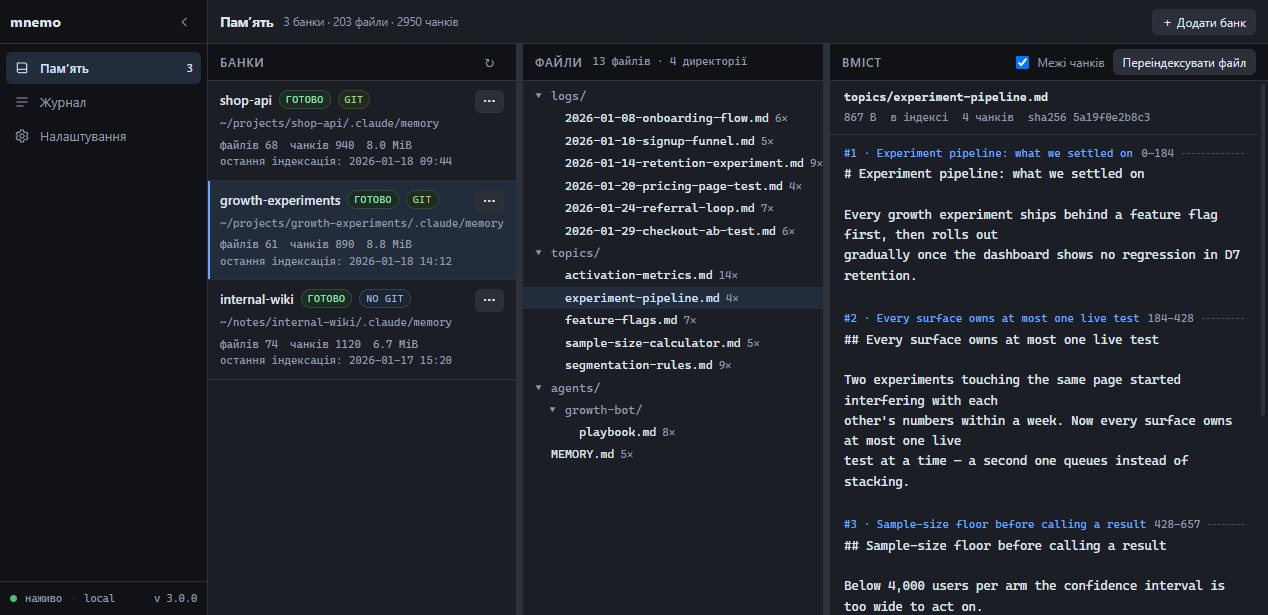
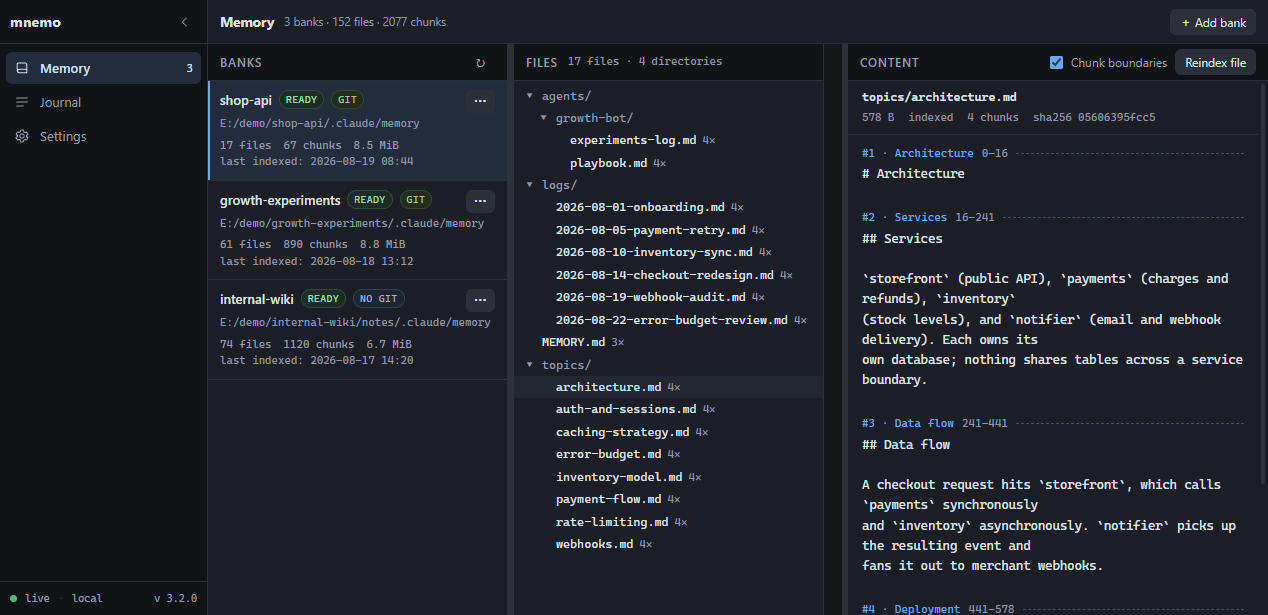
docs: replace the README console screenshot with an all-English shot (MN-29)
The old docs/console.png used synthetic demo data that was crafted live
in a browser session and never committed anywhere, so it couldn't be
reproduced -- and it showed Ukrainian UI chrome in an English README.
New shot: same tab, same 1268x615 proportions, fully English, taken
against devserver.py fixtures with a richer demo bank (17 files across
logs/, topics/, agents/growth-bot/) instead of the checked-in fixtures'
thin 4-file bank.

MN-28 needed no code change: the regenerate-token confirmation dialog
already exists and matches what was asked for.

diff --git a/.claude/memory/logs/2026-08-25-mn28-mn29.md b/.claude/memory/logs/2026-08-25-mn28-mn29.md
@@ -1,0 +1,41 @@
+# 2026-08-25 — MN-28 (verify-only) and MN-29 (README screenshot)
+
+Branch `fix/mn-28-mn-29-token-warning-and-readme-screenshot`, created before any file edit (per the branch-first rule from the same day's earlier MN-8/MN-10 session).
+
+## MN-28 — regenerate-token confirmation already exists
+
+Checked live against the real console (`app.js`'s `bankToken` panel): clicking "Перегенерувати" already sets `bankToken.confirming = true` and renders a full explanation (`common.token.regenConfirm`) plus Cancel/"Так, перегенерувати" buttons before calling `regenerateBankToken()`.
+No code change — verified, commented on the ticket, closed as Done.
+
+## MN-29 — README screenshot had gone stale and was never reproducible
+
+`docs/console.png` (added in `9d13a19`, "New cabinet.png shows the actual current UI with synthetic example data") turned out to be irreproducible: `git log --all -p -S "shop-api"` across the whole history found **zero** hits — the demo bank names (`shop-api`/`growth-experiments`/`internal-wiki`) were never committed anywhere, so that data was crafted live in a browser session and thrown away, not stored.
+`.claude/scratch/` — the one place it might have survived uncommitted — had already been wiped in this same session's earlier post-merge cleanup for PR #20.
+Nothing to recover; confirmed to the user directly rather than guessing.
+
+**The checked-in dev fixtures (`src/webui/fixtures/*.json`) are unusable as-is for a hero screenshot:**
+- `banks.json`'s `index_provider_key` (`"api:bge-m3:1024"`) doesn't match `devserver.py`'s own active-provider key (`_fixture_provider_key()` returns `"local:intfloat/multilingual-e5-large:1024"` for `provider: "local"`, note the `intfloat/` org prefix — differs from `mnemo status`'s trimmed display) — triggers the "N bank(s) have an index from a previous model" REBUILD PENDING banner on every fresh load.
+- `_UPDATE_STATE`/`_SETTINGS["auto_update"]` defaults ship with `update_available: True` and `auto_update: True`, so `_auto_pending_scheduler()` arms a 10s countdown ~6s after boot and auto-applies a simulated update within ~16-20s of opening the page — a self-update modal appears and completes on its own if you don't move fast.
+  Setting `current_tag = latest_tag` and `update_available/auto_update = False` in a temp local edit (never committed) neutralizes both the banner and the badge.
+- One fixture bank (`legacy`) is deliberately DISABLED + ROOT MISSING with red badges — good for exercising that state in dev, bad for a marketing screenshot.
+- Real per-file content (`fixtures/files.json`) only exists for the `mnemo` fixture bank (`b1cfcadf81e9fe53`) — the other 3 fixture banks have empty `trees.json` entries and can't be opened at all.
+
+**Escalation that mattered:** first attempt reused the existing fixture banks with only the provider-key/git-badge/auto-update fixed — still just 4 files in the openable bank (3 real + 1 "not indexed"), one with mixed Ukrainian content.
+User pushed back hard (garbled but clear): wanted a materially richer tree — his number was "10, ideally ~20" files, not 3-4 — and initially floated wanting a live indexing-in-progress badge visible too (later conceded that's optional, "let them all just be ready already, but ~20 files").
+
+**Second attempt (what shipped) — briefly touched the real live service, caught the mistake before screenshotting:** registered a real temporary bank (`mnemo banks add ... --name shop-api`) pointing at a hand-written 17-file demo memory folder (`logs/`, `topics/`, `agents/growth-bot/`, `MEMORY.md` — a fictional checkout-service project, matching this repo's own canonical memory layout) on the **real** running service (port 4646) so it would index for real and render correctly.
+On reload the real console showed this demo bank sitting **next to the user's actual personal banks** (`voice-agent`, `neoversity`, `career-profiles`, `fitness`, real Windows paths) — caught before taking any screenshot, removed the bank immediately (`mnemo banks remove shop-api`, confirmed via `mnemo banks list` back to the original 5).
+**Lesson: never use the real production service for a demo screenshot, even briefly — the moment you reload the real console you're one screenshot away from leaking every real bank name and path in the sidebar.** The isolated `devserver.py` (own fixture files, no connection to the real registry) is the only safe surface for this.
+
+**What actually shipped:** the same 17-file demo folder's content run through a small one-off script (chunked on `#`/`##` heading lines, sha256 + char offsets computed for real) into custom `trees.json`/`files.json` entries for `devserver.py`, plus a 3-bank `banks.json` (`shop-api` real/rich at 17 files, `growth-experiments`/`internal-wiki` cosmetic-only reusing the **original** screenshot's own file/chunk counts as a small continuity touch — never opened, so no tree data needed for them).
+Screenshot taken at the original's exact `1268×615` viewport (confirmed via `PIL.Image.open(...).size` on the old file before replacing it), with pane widths hand-set via `evaluate_script` (`panes[2].style.flexGrow/flexShrink = '0'` — the content pane's default `flex: 0 1 auto` does **not** grow to fill remaining space, so shrinking the other two panes alone just left blank background, not more room for the third; had to set its width explicitly and pin grow/shrink to 0, then trim to the exact px that keeps the right edge at 1268 without clipping text).
+
+All fixture/devserver edits were local-only and reverted with `git checkout --` before committing — the final diff is `docs/console.png` alone.
+`.claude/scratch/demo-memory/` (the source `.md` files used to build the fixture) was deleted along with the rest of scratch once the screenshot was captured; nothing depends on it existing afterward, and the derived fixture JSON was never committed either.
+
+## Devserver gotchas worth remembering for the next screenshot/demo session
+
+- `_fixture_provider_key()`'s local key literally includes the HF org prefix (`intfloat/multilingual-e5-large`) — don't assume it matches the CLI's trimmed display string.
+- The auto-update simulation is **on by default and fires within ~20s of boot** — always neutralize `_SETTINGS["auto_update"]` and `_UPDATE_STATE["current_tag"]/["update_available"]` first, before doing anything else, or race the countdown.
+- `.pane` elements: only the first two (banks, files) get an inline `style.width` from user resize; the third (content) is `flex: 0 1 auto` and must have its width set explicitly (plus `flexGrow`/`flexShrink` pinned to `'0'`) to actually widen — narrowing its siblings alone does nothing but leave a blank gap.
+- `SERVICE_VERSION = "3.0.0-mock"` shows up verbatim in the sidebar footer ("v 3.0.0-mock") — worth overriding to the real current tag for anything screenshot-facing, since "-mock" reads as a broken/dev build to anyone who doesn't know this is a fixture server.

diff --git a/.claude/memory/MEMORY.md b/.claude/memory/MEMORY.md
@@ -21,7 +21,9 @@ This file is an **index**: links + quick facts only; detail lives in `topics/`, 
   **Нова оболонка реалізована** у `src/webui/static/` (сайдбар = три маршрути, хедер = сторінка, підвал сайдбару = машина) з `docs/console-design.html` як еталоном; `app.js` розбитий на `shell.js`/`page-{memory,journal,settings}.js`, CSS — на `styles/*.css`.
   Journal snapshot-текст, кнопка завантаження моделі й чекбокс `init` у діалозі банку **зроблені** 2026-08-20 (друге) — `logs/2026-08-20-cabinet-followups.md`.
   Не зроблено: фільтр статусу й повнотекстовий пошук журналу.
-  2026-08-23: `connectSocket()` мав застарілу гвардію `!token`, що взагалі не намагалась відкрити `/ws` на свіжому встановленні без токена (типовий стан, `/api` відкритий за замовчуванням) — WS-запиту не було в Network, жодної помилки в консолі, просто вічно сірий індикатор. Виправлено на `if (state.gated) return;`, симетрично серверній перевірці `_configured_token()`. Деталі й жива репродукція (нова вкладка без `sessionStorage`-токена) — `logs/2026-08-23-ws-connect-guard-fix.md`.
+  2026-08-23: `connectSocket()` мав застарілу гвардію `!token`, що взагалі не намагалась відкрити `/ws` на свіжому встановленні без токена (типовий стан, `/api` відкритий за замовчуванням) — WS-запиту не було в Network, жодної помилки в консолі, просто вічно сірий індикатор.
+  Виправлено на `if (state.gated) return;`, симетрично серверній перевірці `_configured_token()`.
+  Деталі й жива репродукція (нова вкладка без `sessionStorage`-токена) — `logs/2026-08-23-ws-connect-guard-fix.md`.
 - [Native Windows support](topics/windows-native-support.md) — PowerShell 5.1 installer, canonical launcher contract, portable wiring, and verification.
 - [Пропускна здатність ембедингу](topics/embedding-throughput.md) — наш CPU-резидент проти bge-m3 на GPU через Ollama, на однакових 35 571 токені: **8.8× на пакеті, але лише 1.8× на одному запиті**.
   Головна знахідка: **час індексації = паддед-токени / 243** — але це властивість **CPU**- бекенда, на GPU домінує кількість викликів.
@@ -68,6 +70,12 @@ This file is an **index**: links + quick facts only; detail lives in `topics/`, 
 
 ## Logs
 
+- [2026-08-25 (MN-28/MN-29)](logs/2026-08-25-mn28-mn29.md) — MN-28: regenerate-token confirmation already existed, verified live, no code change.
+  MN-29: `docs/console.png` replaced with an all-English shot; the original's demo data was never committed anywhere (confirmed via `git log -S`) and is unrecoverable.
+  Checked-in `devserver.py` fixtures needed temporary (uncommitted) fixes — provider-key mismatch banner, auto-update countdown firing within ~20s of boot, only 4 files in the one openable fixture bank.
+  Briefly registered a demo bank on the **real** service to get more files — caught before screenshotting that this exposed real personal bank names in the sidebar, removed it immediately, rebuilt the richer content as proper `devserver.py` fixtures instead.
+- [2026-08-25 (MN-8/MN-10 branch-first)](logs/2026-08-25-mn8-mn10-branch-first.md) — both tickets started by editing files directly on `master` (branch created "before the commit", not before the first edit) — a repeat pattern the user caught.
+  Recovered without loss (nothing was committed yet); rewrote `.claude/rules/git-workflow.md` so the branch is explicitly step zero, plus guidance for one shared branch when several tasks are handed over together.
 - [2026-08-24 (MN-24/23/22/21)](logs/2026-08-24-mn24-mn23-mn22-mn21-batch-bugfixes.md) — batch of 4 tickets on one shared `fix` branch (not per-ticket branches, deliberate).
   MN-24: `mnemo status` no longer autostarts a stopped service (`_client()`/`_run_api()` gained `autostart` kwarg).
   MN-23: Linux autostart enable/disable dropped `--now` — was killing the live backend (same systemd unit), read as "service restarted".
